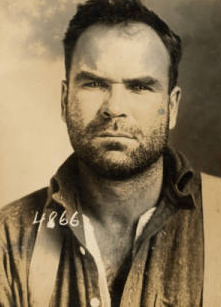
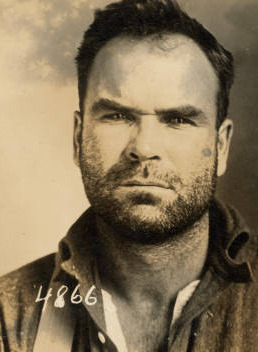
Recrop Thomas H. Tracy photo from EPLS Everett Massacre archive
Replace Tracy's photo with a cleaner, higher-resolution frontal crop of his
1916 Snohomish County jail booking photo (IWW Prisoner 4866), redownloaded
from the Everett Public Library's "Everett Massacre Collection" digital
archive (nw.epls.org item 30) and cropped from the full two-shot mugshot to
the frontal view. Adds prisoners:set-thomas-tracy-photo to force-update the
stored copy, since the roster loader only attaches a photo when none exists.

Claude-Session: https://claude.ai/code/session_01CrKCjcvYcFYWnikaLWCPiB

diff --git a/app/Console/Commands/SetThomasTracyPhoto.php b/app/Console/Commands/SetThomasTracyPhoto.php
@@ -1,0 +1,53 @@
+<?php
+
+namespace App\Console\Commands;
+
+use App\Http\Controllers\Api\PrisonerApiController;
+use App\Models\Prisoner;
+use Illuminate\Console\Command;
+use Illuminate\Support\Facades\Cache;
+use Illuminate\Support\Facades\Storage;
+
+/**
+ * Refreshes Thomas H. Tracy's photo with a cleaner frontal crop of his 1916
+ * Snohomish County jail booking photo (IWW Prisoner 4866), taken from the
+ * Everett Public Library's "Everett Massacre Collection" digital archive
+ * (nw.epls.org, item 30). Tracy was the one Everett Massacre defendant brought
+ * to trial; his May 5, 1917 acquittal ended the prosecutions. The roster loader
+ * only attaches a photo when the record has none, so this command force-updates
+ * the stored copy. Image over 100 years old (public domain); see
+ * CREDITS-wikipedia.md. Idempotent — always refreshes the stored copy.
+ */
+final class SetThomasTracyPhoto extends Command
+{
+    protected $signature = 'prisoners:set-thomas-tracy-photo';
+
+    protected $description = 'Refresh Thomas H. Tracy\'s photo with a cleaner frontal crop of his 1916 booking photo';
+
+    public function handle(): int
+    {
+        $prisoner = Prisoner::withUnderReview()->where('name', 'Thomas H. Tracy')->first();
+        if (! $prisoner) {
+            $this->error('Thomas H. Tracy not found.');
+
+            return self::FAILURE;
+        }
+
+        $src = database_path('data/photos/thomas-h-tracy.jpg');
+        if (! is_file($src)) {
+            $this->error('Photo source not found: '.$src);
+
+            return self::FAILURE;
+        }
+
+        Storage::disk('public')->makeDirectory('prisoners');
+        Storage::disk('public')->put('prisoners/thomas-h-tracy.jpg', (string) file_get_contents($src));
+        $prisoner->photo = 'prisoners/thomas-h-tracy.jpg';
+        $prisoner->save();
+
+        Cache::forget(PrisonerApiController::cacheKey());
+        $this->info("Set photo for {$prisoner->name} -> prisoners/thomas-h-tracy.jpg");
+
+        return self::SUCCESS;
+    }
+}

diff --git a/database/data/photos/CREDITS-wikipedia.md b/database/data/photos/CREDITS-wikipedia.md
@@ -66,7 +66,7 @@ require. Each links to the Commons File: page (full author/license details).
 | Harvey Hubler | harvey-hubler.jpg | Public domain (1916 mugshot) | Everett Public Library / Snohomish County | Cropped to the frontal view of his 1916 Snohomish County jail mug-shot (Everett Massacre defendant), via the University of Washington IWW History Project ("Faces of the IWW"); the Everett Public Library authorized use. Over 100 years old — public domain. |
 | E. M. Beck | e-m-beck.jpg | Public domain (1916 mugshot) | Everett Public Library / Snohomish County | Cropped to the frontal view of his 1916 Snohomish County jail mug-shot (Everett Massacre defendant), via the University of Washington IWW History Project ("Faces of the IWW"); the Everett Public Library authorized use. Over 100 years old — public domain. |
 | D. Stevens | d-stevens.jpg | Public domain (1916 mugshot) | Everett Public Library / Snohomish County | Cropped to the frontal view of his 1916 Snohomish County jail mug-shot (Everett Massacre defendant), via the University of Washington IWW History Project ("Faces of the IWW"); the Everett Public Library authorized use. Over 100 years old — public domain. |
-| Thomas H. Tracy | thomas-h-tracy.jpg | Public domain (1916 mugshot) | Everett Public Library / Snohomish County | Cropped to the frontal view of his 1916 Snohomish County jail mug-shot (Everett Massacre defendant), via the University of Washington IWW History Project ("Faces of the IWW"); the Everett Public Library authorized use. Over 100 years old — public domain. |
+| Thomas H. Tracy | thomas-h-tracy.jpg | Public domain (1916 mugshot) | Everett Public Library / Snohomish County | Cropped to the frontal view of his 1916 Snohomish County jail booking photo (IWW Prisoner 4866; Everett Massacre defendant), from the Everett Public Library's "Everett Massacre Collection" digital archive (nw.epls.org, item 30). Over 100 years old — public domain. |
 | Charles Auspos | charles-auspos.jpg | Public domain (1916 mugshot) | Everett Public Library / Snohomish County | Cropped to the frontal view of his 1916 Snohomish County jail mug-shot (Everett Massacre defendant), via the University of Washington IWW History Project ("Faces of the IWW"); the Everett Public Library authorized use. Over 100 years old — public domain. |
 | Abraham B. Wimborne | abraham-b-wimborne.jpg | Public domain (1916 mugshot) | Everett Public Library / Snohomish County | Cropped to the frontal view of his 1916 Snohomish County jail mug-shot (Everett Massacre defendant), via the University of Washington IWW History Project ("Faces of the IWW"); the Everett Public Library authorized use. Over 100 years old — public domain. |
 | Alfred Howard | alfred-howard.jpg | Public domain (1916 mugshot) | Everett Public Library / Snohomish County | Cropped to the frontal view of his 1916 Snohomish County jail mug-shot (Everett Massacre defendant), via the University of Washington IWW History Project ("Faces of the IWW"); the Everett Public Library authorized use. Over 100 years old — public domain. |
